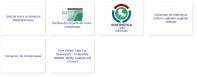
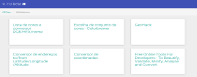
Adaptação da lista de utilitários para bootstrap

diff --git a/utilitarios/index.js b/utilitarios/index.js
@@ -1,0 +1,64 @@
+botoesIni = [
+	{
+		"link":"../pacotes/utils/rgbcolors.html",
+		"corpo": $trad("rgbcolors",g_traducao_util)
+	},
+	{
+		"link":"http://colorbrewer2.com/",
+		"corpo": $trad("Colorbrewer",g_traducao_util)
+	},
+	{
+		"link":"http://tools.wmflabs.org/geohack/",
+		"corpo": "GeoHack"
+	},
+	{
+		"link":"http://stevemorse.org/jcal/latlon.php",
+		"corpo": $trad("end",g_traducao_util)
+	},
+	{
+		"link":"https://maptools.info/tools/converter/",
+		"corpo": $trad("coord",g_traducao_util)
+	},
+	{
+		"link":"http://codebeautify.org/",
+		"corpo": "Free Online Tools For Developers - To Beautify, Validate, Minify, Analyse and Convert"
+	}
+];
+
+function mostraBotoesBT(){
+	//
+	//essa funcao obtem a lista unica de tags para montar o indice
+	//
+	var html = "", novalista = [], n, nc, i, j, chaves = [], nchaves = [];
+
+	n = botoesIni.length;
+	for(i=0; i<n; i++){
+		chaves.push(botoesIni[i].tag);
+	}
+	chaves = chaves.getUnique();
+	chaves.sort();
+	nc = chaves.length;
+	for(j=0;j<nc;j++){
+		for(i=0; i<n; i++){
+			if(botoesIni[i].tag == chaves[j]){
+				botoesIni[i]["id"] = "a"+j;
+				novalista.push(botoesIni[i]);
+			}
+		}
+	}
+	html = Mustache.to_html(
+			"{{#d}}" + $("#botoesTpl").html() + "{{/d}}",
+			{"d":novalista}
+	);
+	$("#botoesTpl").html(html);
+
+	for(j=0;j<nc;j++){
+		nchaves.push({"tag":chaves[j],"id":"a"+j});
+	}
+	html = Mustache.to_html(
+			"{{#d}}" + $("#tplLista").html() + "{{/d}}",
+			{"d":nchaves}
+	);
+	var r = new RegExp("&amp;","g");
+	$("#tplLista").html(html.replace(r,"&"));
+}

diff --git a/utilitarios/dicionario.js b/utilitarios/dicionario.js
@@ -1,0 +1,29 @@
+//veja em index.js o objeto que utiliza essa traducao
+g_traducao_util =
+{
+		"util" : [{
+			pt : "Utilit&aacute;rios",
+			en : "",
+			es : ""
+		}],
+		"rgbcolors" : [{
+			pt : "Lista de cores e conversor RGB/HEX/nome",
+			en : "",
+			es : ""
+		}],
+		"Colorbrewer" : [{
+			pt : "Escolha de conjunto de cores - Colorbrewer",
+			en : "",
+			es : ""
+		}],
+		"end" : [{
+			pt : "Conversor de endere&ccedil;os to/from Latitude/Longitude/Altitude",
+			en : "",
+			es : ""
+		}],
+		"coord" : [{
+			pt : "Conversor de coordenadas",
+			en : "",
+			es : ""
+		}]
+};

diff --git a/init/index.js b/init/index.js
@@ -113,7 +113,7 @@ botoesIni = [
 	"target": "_self"
 },{
 	"img":"applications-development.png",
-	"href": location.href.replace("index.php","") +  "../pacotes/utils/index.php",
+	"href": location.href.replace("index.php","") +  "../utilitarios/index.php",
 	"titulo":$trad(33,g_traducao_init),
 	"subtitulo": $trad("33a",g_traducao_init),
 	"fa": "wrench",

diff --git a/utilitarios/index.php b/utilitarios/index.php
@@ -1,0 +1,58 @@
+<?php
+define ( ONDEI3GEO, ".." );
+include (dirname ( __FILE__ ) . "/../ms_configura.php");
+error_reporting ( 0 );
+include "../init/head.php";
+?>
+<body style="background-color: #eeeeee; padding-top: 55px;">
+	<nav class="navbar navbar-fixed-top navbar-inverse" role="navigation">
+		<div class="container-fluid">
+			<div class="navbar-header">
+				<a class="navbar-brand" href="../init/index.php"><?php echo $mensagemInicia;?> <i
+					class="fa fa-home fa-1x"></i></a>
+			</div>
+		</div>
+	</nav>
+	<div class="container-fluid">
+		<div class="row">
+			<ol class="breadcrumb">
+				<li><a href="../init/index.php">i3Geo</a></li>
+				<li class="active"></li>
+			</ol>
+		</div>
+	</div>
+	<div class="container-fluid">
+		<div class="row center-block">
+			<div class="col-sm-12">
+				<!-- Template para criacao dos quadros ver index.js -->
+				<div id="botoesTpl" class="hidden">
+					<div class="{{id}} exemplo col-xs-12 center-block"
+						style="width: 260px; min-width: 260px; max-width: 260px;">
+						<div class="panel panel-default">
+							<div class="panel-body" style="height: 150px; overflow: auto;">
+								<h4><a href="{{{link}}}" target="_blank" role="button">{{{corpo}}}</a></h4>
+							</div>
+						</div>
+					</div>
+				</div>
+			</div>
+		</div>
+		<script src='../classesjs/compactados/mustache.js'></script>
+		<script src='../classesjs/compactados/dicionario_compacto.js'></script>
+		<script src='../classesjs/compactados/classe_util_compacto.js'></script>
+		<script src='../classesjs/compactados/classe_idioma_compacto.js'></script>
+		<script src='dicionario.js'></script>
+		<script src='index.js'></script>
+
+		<script>
+	$(document).ready(function(){
+		i3GEO.configura = {"locaplic" : "..","sid": ""};
+		$(".active").html($trad("util",g_traducao_util));
+		mostraBotoesBT();
+		$('.hidden').removeClass('hidden');
+		$.material.init();
+	});
+	</script>
+
+</body>
+</html>

diff --git a/init/index.php b/init/index.php
@@ -230,7 +230,7 @@ include "head.php";
 				trigger: "click focus",
 				content: function(){
 					var urlqr = "../pacotes/qrcode/php/qr_img.php?host=" + window.location.host + "&u=" + $(this).attr("data-url");
-					return "<img style='width:200px; height: 200px;' src='" + urlqr + "' '>";
+					return "<a title='click' href='"+ $(this).attr("data-url") +"'><img style='width:200px; height: 200px;' src='" + urlqr + "' '></a>";
 				}
 			});
 		}
